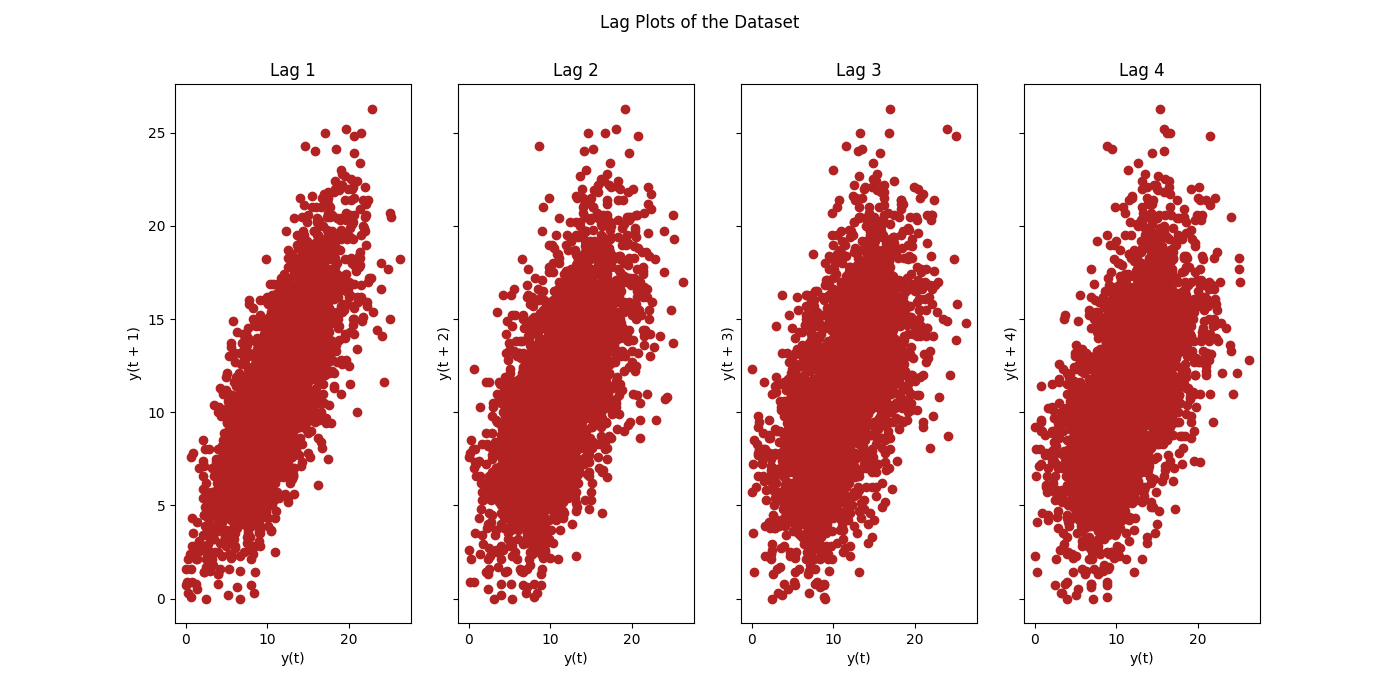
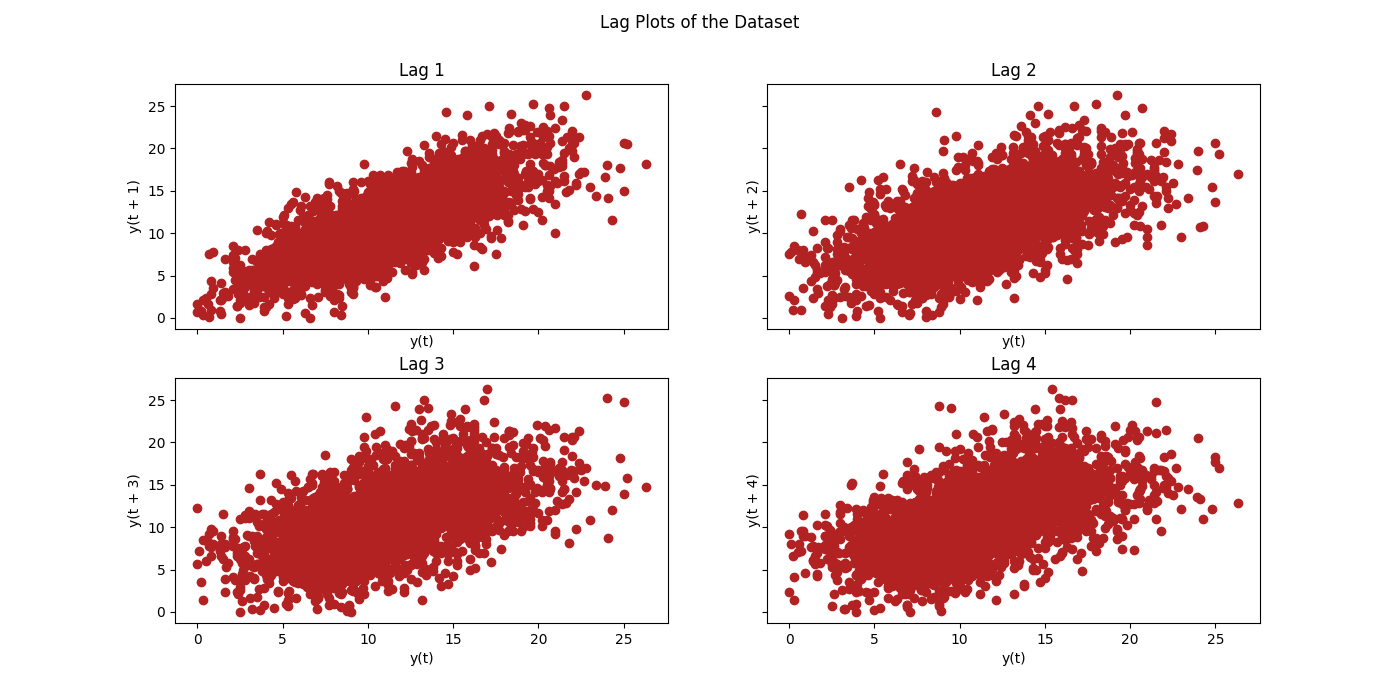
working on sunspot

diff --git a/code/Ass1/sun.py b/code/Ass1/sun.py
@@ -35,7 +35,7 @@ series = pd.read_csv(
 
 series.index = pd.to_datetime(series.index)
 
-
+plt.close("all")
 ############################################################################
 #########      Saving and showing the plot of the raw signal      ##########
 ############################################################################
@@ -50,6 +50,18 @@ plt.figure()
 plt.plot(series["1749":"1800"])
 plt.savefig(os.path.join(fig_dir, a + "raw_signal_1990.png"))
 
+
+series_log = series.copy(deep=True)
+series_log["Sunspots"] = series["Sunspots"] - series["Sunspots"].shift(1)
+plt.figure()
+fig = series_log.plot()
+plt.savefig(os.path.join(fig_dir, a + "transformed_raw_signal.png"))
+
+resample_log = series_log.resample("AS").mean()
+plt.figure()
+plt.plot(resample_log)
+plt.savefig(os.path.join(fig_dir, a + "resample_log.png"))
+
 print("[INFO] Saving and printing the head of the first dataset")
 with open(os.path.join(tbl_dir, a + "raw_signal.tex"), "w") as tf:
     tf.write(series.head(5).to_latex())
@@ -60,7 +72,7 @@ with open(os.path.join(tbl_dir, a + "raw_signal_summary_statistics.tex"), "w") a
     tf.write(series.describe().to_latex())
 
 ############################################################################
-#########         Decompositions: Moving Avarage function          ##########
+#########        Decompositions: Moving Avarage function          ##########
 ############################################################################
 print("[INFO] Saving and showing the plot of Moving Avarage function")
 
@@ -86,12 +98,11 @@ plt.savefig(os.path.join(fig_dir, a + "Moving_Avrage.png"))
 """
 print("[INFO] Plot the decomposition by seasonal_decompose method...")
 decomposition_sd = seasonal.seasonal_decompose(
-    series, model="additive", extrapolate_trend="freq", period=365
+    series, model="additive", extrapolate_trend="freq", period=120
 )
 
 fig = decomposition_sd.plot()
 plt.savefig(os.path.join(fig_dir, a + "seasonal_decompose.png"))
-
 
 ############################################################################
 #########          Seasonal Modeling (fitting polynomial)         ##########
@@ -146,11 +157,13 @@ plt.savefig(os.path.join(fig_dir, a + "one_diff.png"))
 ############################################################################
 
 print("[INFO] Plot the decomposition by STL method...")
-decomposition_STL = seasonal.STL(series, period=365).fit()
+decomposition_STL = seasonal.STL(series).fit()
 fig = decomposition_STL.plot()
 plt.savefig(os.path.join(fig_dir, a + "STL.png"))
 
-
+decomposition_STL_log = seasonal.STL(series_log).fit()
+fig = decomposition_STL_log.plot()
+plt.savefig(os.path.join(fig_dir, a + "STL_log.png"))
 ############################################################################
 #########         Decompositions: LinearRegression method         ##########
 ############################################################################
@@ -203,7 +216,7 @@ plt.savefig(os.path.join(fig_dir, a + "LinearRegression_diff.png"))
 ############################################################################
 
 """residual = {decomposition_sd.resid, decomposition_STL.resid, diff}"""
-residual = decomposition_sd.resid
+residual = decomposition_STL.resid
 
 print("[INFO] ACF plot for residual component...")
 plt.figure()
@@ -229,19 +242,6 @@ with open(os.path.join(tbl_dir, a + "ADF.tex"), "w") as tf:
 ############################################################################
 """
 ## https://www.statsmodels.org/stable/examples/notebooks/generated/stationarity_detrending_adf_kpss.html
-
-The p-value is obtained is greater than significance level of 0.05 and
-the ADF statistic is higher than any of the critical values.
-Clearly, there is no reason to reject the null hypothesis. So,
-the time series is in fact non-stationary.
-
-The p-value is very less than the significance level of 0.05 and
-hence we can reject the null hypothesis and take that the series is stationary.
-
-Case 1: Both tests conclude that the series is not stationary - The series is not stationary
-Case 2: Both tests conclude that the series is stationary - The series is stationary
-Case 3: KPSS indicates stationarity and ADF indicates non-stationarity - The series is trend stationary. Trend needs to be removed to make series strict stationary. The detrended series is checked for stationarity.
-Case 4: KPSS indicates non-stationarity and ADF indicates stationarity - The series is difference stationary. Differencing is to be used to make series stationary. The differenced series is checked for stationarity.
 """
 print("[INFO] Results of KPSS Test:")
 Results = stattools.kpss(residual, regression="c", nlags="auto")
@@ -258,14 +258,7 @@ with open(os.path.join(tbl_dir, a + "KPSS.tex"), "w") as tf:
 ############################################################################
 #########               stationary test: PACF method              ##########
 ############################################################################
-### https://towardsdatascience.com/detecting-stationarity-in-time-series-data-d29e0a21e638
-"""You see how ACF is declining in amplitude exponentially, while PACF cuts off after lag 1.
-This may suggest that you're dealing with AR(1) process.
-How do I know this? If you derive the ACF and PACF assuming that your process is AR(1),
-which includes constant variance of errors, then you'd come up with a similar shaped curves.
-Hence, if your underlying series are not stationary, you're breaking the assumptions that 
-are base for the heuristics that I mentioned about ACF/PACF. It's pointless to apply these on 
-non-stationary series, since you can't make any conclusions about the lag structure anymore.
+""" https://towardsdatascience.com/detecting-stationarity-in-time-series-data-d29e0a21e638
 """
 print("[INFO] PACF plot for residual component...")
 PACF_output = stattools.pacf(residual)
@@ -279,7 +272,6 @@ plot_acf(residual, lags=50, ax=axes[0])
 plot_pacf(residual, lags=50, ax=axes[1])
 plt.savefig(os.path.join(fig_dir, a + "PACF_ACF.png"))
 
-
 ############################################################################
 #########               stationary test: Lag Plots                ##########
 ############################################################################
@@ -287,7 +279,7 @@ plt.savefig(os.path.join(fig_dir, a + "PACF_ACF.png"))
 '''(Points get wide and scattered with increasing lag -> lesser correlation)\n"'''
 print("[INFO] Lag plot for residual component...")
 
-fig, axes = plt.subplots(1, 4, sharex=True, sharey=True, dpi=100)
+fig, axes = plt.subplots(2, 2, sharex=True, sharey=True, dpi=100)
 for i, ax in enumerate(axes.flatten()[:4]):
     lag_plot(series, lag=i + 1, ax=ax, c="firebrick")
     ax.set_title("Lag " + str(i + 1))
@@ -296,7 +288,7 @@ fig.suptitle("Lag Plots of the Dataset")
 plt.savefig(os.path.join(fig_dir, a + "Lag_Plots.png"))
 
 
-fig, axes = plt.subplots(1, 4, sharex=True, sharey=True, dpi=100)
+fig, axes = plt.subplots(2, 2, sharex=True, sharey=True, dpi=100)
 for i, ax in enumerate(axes.flatten()[:4]):
     lag_plot(residual, lag=i + 1, ax=ax, c="firebrick")
     ax.set_title("Lag " + str(i + 1))

diff --git a/code/Ass1/Temp.py b/code/Ass1/Temp.py
@@ -291,7 +291,7 @@ plt.savefig(os.path.join(fig_dir, a + "PACF_ACF.png"))
 '''(Points get wide and scattered with increasing lag -> lesser correlation)\n"'''
 print("[INFO] Lag plot for residual component...")
 
-fig, axes = plt.subplots(1, 4, sharex=True, sharey=True, dpi=100)
+fig, axes = plt.subplots(2, 2, sharex=True, sharey=True, dpi=100)
 for i, ax in enumerate(axes.flatten()[:4]):
     lag_plot(series, lag=i + 1, ax=ax, c="firebrick")
     ax.set_title("Lag " + str(i + 1))
@@ -300,7 +300,7 @@ fig.suptitle("Lag Plots of the Dataset")
 plt.savefig(os.path.join(fig_dir, a + "Lag_Plots.png"))
 
 
-fig, axes = plt.subplots(1, 4, sharex=True, sharey=True, dpi=100)
+fig, axes = plt.subplots(2, 2, sharex=True, sharey=True, dpi=100)
 for i, ax in enumerate(axes.flatten()[:4]):
     lag_plot(residual, lag=i + 1, ax=ax, c="firebrick")
     ax.set_title("Lag " + str(i + 1))

diff --git a/manuscript/src/tables/Ass1/Ass1_D2_ADF.tex b/manuscript/src/tables/Ass1/Ass1_D2_ADF.tex
@@ -2,12 +2,12 @@
 \toprule
 {} &             0 \\
 \midrule
-ADF Statistic               & -1.076982e+01 \\
-p-value                     &  2.400224e-19 \\
-\#Lags Used                  &  2.700000e+01 \\
-Number of Observations Used &  2.792000e+03 \\
-Critical Value (1\%)         & -3.432694e+00 \\
-Critical Value (5\%)         & -2.862576e+00 \\
+ADF Statistic               & -1.416763e+01 \\
+p-value                     &  2.029256e-26 \\
+\#Lags Used                  &  2.400000e+01 \\
+Number of Observations Used &  2.795000e+03 \\
+Critical Value (1\%)         & -3.432692e+00 \\
+Critical Value (5\%)         & -2.862575e+00 \\
 Critical Value (10\%)        & -2.567321e+00 \\
 \bottomrule
 \end{tabular}

diff --git a/manuscript/src/tables/Ass1/Ass1_D2_KPSS.tex b/manuscript/src/tables/Ass1/Ass1_D2_KPSS.tex
@@ -2,9 +2,9 @@
 \toprule
 {} &          0 \\
 \midrule
-KPSS Statistic        &   0.016367 \\
+KPSS Statistic        &   0.017052 \\
 p-value               &   0.100000 \\
-Lags Used             &  30.000000 \\
+Lags Used             &  68.000000 \\
 Critical Value (10\%)  &   0.347000 \\
 Critical Value (5\%)   &   0.463000 \\
 Critical Value (2.5\%) &   0.574000 \\
